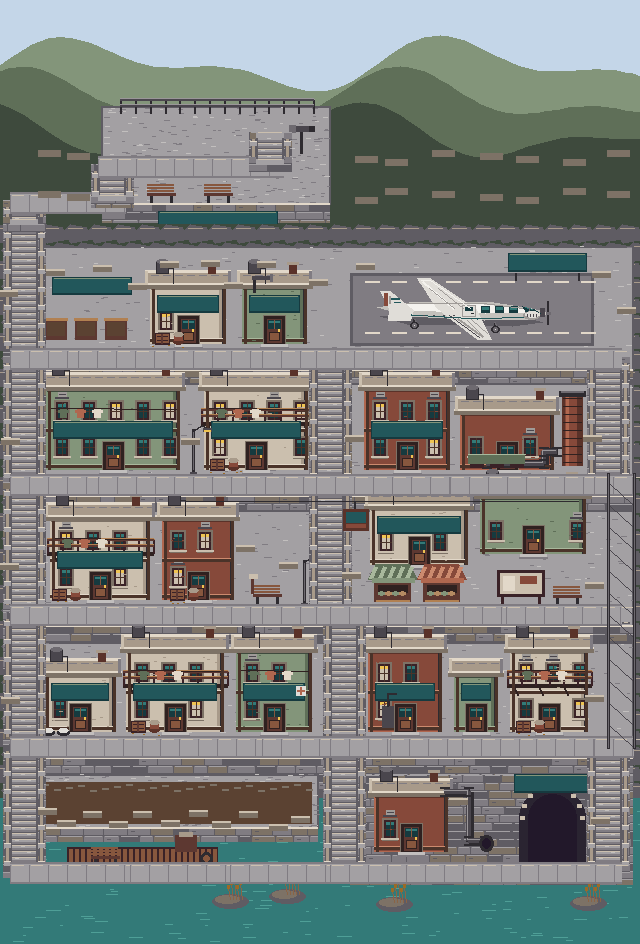
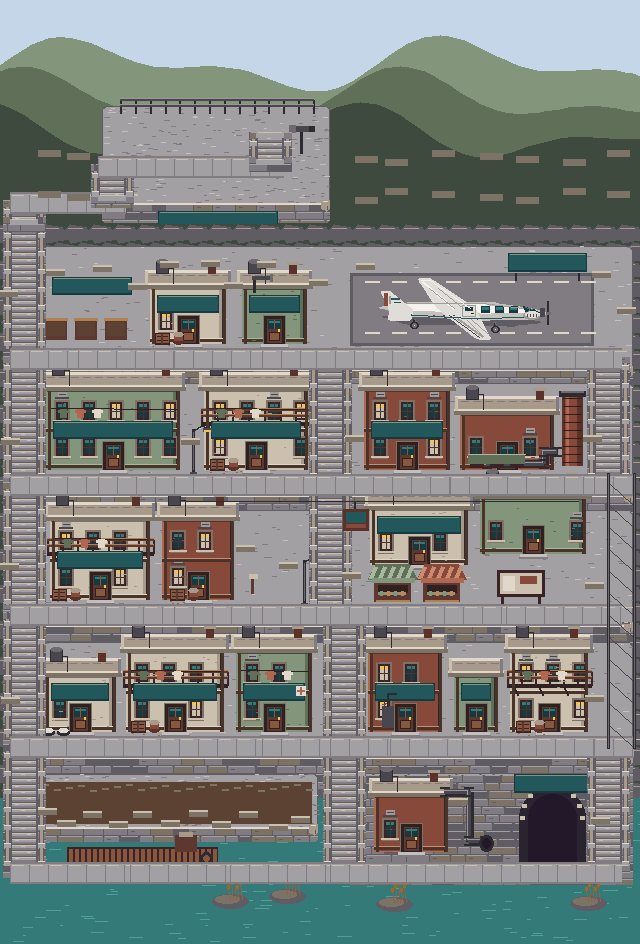
细修山城台面石角与飞机弧形轮廓，移除全部室外长椅

diff --git a/art/src/concept/autumn_city.py b/art/src/concept/autumn_city.py
@@ -71,6 +71,20 @@ class City:
   if w>0 and h>0:self.d.rectangle((int(x),int(y),int(x+w-1),int(y+h-1)),fill=c)
  def line(self,pts,c,width=1):self.d.line([(int(x),int(y)) for x,y in pts],fill=c,width=width)
  def poly(self,pts,c):self.d.polygon([(int(x),int(y)) for x,y in pts],fill=c)
+ def rounded(self,pts,radius=5):
+  # Integer quadratic corner transitions: preserve pixel edges, no filtering/AA.
+  result=[]
+  for i,v in enumerate(pts):
+   prev=pts[i-1];nxt=pts[(i+1)%len(pts)]
+   before=math.dist(prev,v);after=math.dist(v,nxt)
+   if not before or not after:continue
+   r=min(radius,before*.24,after*.24)
+   a=(v[0]+(prev[0]-v[0])*r/before,v[1]+(prev[1]-v[1])*r/before)
+   b=(v[0]+(nxt[0]-v[0])*r/after,v[1]+(nxt[1]-v[1])*r/after)
+   for j in range(5):
+    t=j/4;result.append((round((1-t)**2*a[0]+2*(1-t)*t*v[0]+t*t*b[0]),round((1-t)**2*a[1]+2*(1-t)*t*v[1]+t*t*b[1])))
+  return result
+ def soft_poly(self,pts,color,radius=5):self.poly(self.rounded(pts,radius),color)
  def oval(self,x,y,rx,ry,c):self.d.ellipse((int(x-rx),int(y-ry),int(x+rx),int(y+ry)),fill=c)
  def text(self,x,y,t,n=10,c=None):
   f=font(n);b=f.getbbox(t);mask=Image.new('L',(b[2]+2,max(n+5,b[3]+2)));ImageDraw.Draw(mask).text((0,0),t,font=f,fill=255)
@@ -118,13 +132,19 @@ class City:
   for off in (14,8):self.line([(a[0],a[1]-off),(b[0],b[1]-off)],col[1],2);self.line([(a[0],a[1]-off-1),(b[0],b[1]-off-1)],col[3])
  def terrace(self,pts,drop,seed):
   front=pts[len(pts)//2:];wall=front+[(x,y+drop) for x,y in reversed(front)]
-  self.masonry(wall,seed);self.poly(pts,P.pave[2]);self.line(pts+[pts[0]],P.pave[0],2)
+  self.masonry(self.rounded(wall,5),seed);outline=self.rounded(pts,6);self.poly(outline,P.pave[2]);self.line(outline+[outline[0]],P.pave[0],1)
   # Parallel irregular flagstones follow the top plane, clipped to its polygon.
-  mask=Image.new('1',(W,H));ImageDraw.Draw(mask).polygon(pts,fill=1);arr=np.array(mask);r=random.Random(seed)
+  mask=Image.new('1',(W,H));ImageDraw.Draw(mask).polygon(outline,fill=1);arr=np.array(mask);r=random.Random(seed)
   for _ in range(250):
    x=r.randrange(min(p[0] for p in pts),max(p[0] for p in pts));y=r.randrange(min(p[1] for p in pts),max(p[1] for p in pts))
    if arr[y,x]:self.line([(x,y),(min(W-1,x+r.randrange(2,6)),y)],P.pave[1] if _%3 else P.pave[3])
-  for a,b in zip(front,front[1:]):self.line([a,b],P.oat[3],2)
+  for a,b in zip(front,front[1:]):self.line([(a[0]-5,a[1]),(b[0]+5,b[1])],P.oat[3],2)
+  # Small dressed corner stones tie the coping to the retaining face.
+  for x,y in front:
+   inward=1 if x==min(p[0] for p in pts) else -1
+   self.soft_poly([(x,y-4),(x+inward*8,y-4),(x+inward*8,y+4),(x+inward*3,y+7),(x,y+4)],P.oat[1],2)
+   self.line([(x+inward*2,y-3),(x+inward*6,y-3)],P.oat[3])
+   self.line([(x+inward*2,y+2),(x+inward*2,y+5)],P.pave[0])
  def stairs(self,a,b,width=32):
   # Solid sandstone, open at both ends. Horizontal links are landings, never ladders.
   if a==b:return
@@ -306,12 +326,12 @@ def city_layers(stage=0,review=False):
  c.box(350,49,244,73,P.pave[0]);c.box(353,52,238,67,P.pave[1])
  for x in range(365,586,27):c.box(x,108,15,2,P.oat[3]);c.box(x,57,15,2,P.oat[3])
  # Larger private plane, 174px span, with separate tailplane, engine and landing gear.
- c.poly([(380,92),(422,88),(519,91),(542,98),(512,102),(407,100)],P.pave[0])
- c.poly([(377,83),(409,78),(493,78),(531,84),(550,89),(531,95),(484,96),(409,92)],P.porcelain[1])
- c.poly([(406,80),(483,80),(522,84),(538,88),(485,89),(411,86)],P.porcelain[3])
- c.poly([(436,83),(417,54),(430,54),(475,84),(491,115),(477,115),(448,93)],P.porcelain[2])
+ c.soft_poly([(380,92),(422,88),(519,91),(542,98),(512,102),(407,100)],P.pave[0])
+ c.soft_poly([(377,83),(409,78),(493,78),(531,84),(550,89),(531,95),(484,96),(409,92)],P.porcelain[1])
+ c.soft_poly([(406,80),(483,80),(522,84),(538,88),(485,89),(411,86)],P.porcelain[3])
+ c.soft_poly([(436,83),(417,54),(430,54),(475,84),(491,115),(477,115),(448,93)],P.porcelain[2])
  c.line([(422,57),(453,84)],P.porcelain[3],2);c.line([(457,94),(482,112)],P.porcelain[0],2)
- c.poly([(389,85),(380,67),(390,67),(413,86),(410,96),(388,96)],P.porcelain[2]);c.box(384,69,4,13,P.clay[1])
+ c.soft_poly([(389,85),(380,67),(390,67),(413,86),(410,96),(388,96)],P.porcelain[2]);c.box(384,69,4,13,P.clay[1])
  for x in (481,495,509):c.box(x,82,9,7,P.teal[0]);c.box(x+1,83,7,3,P.teal[2])
  c.box(540,84,5,9,P.steel[1]);c.box(547,77,2,24,P.steel[0]);c.box(546,88,5,3,P.steel[2])
  for x,y in ((413,95),(494,99)):c.box(x,y,2,6,P.steel[0]);c.oval(x+1,y+6,3,3,P.steel[0]);c.box(x,y+5,2,2,P.steel[2])
@@ -319,7 +339,7 @@ def city_layers(stage=0,review=False):
  c.line([(411,90),(477,94),(526,92)],P.teal[1],2)
  c.line([(406,79),(482,79),(523,84)],P.porcelain[0])
  for x in range(423,475,10):c.box(x,91,2,1,P.steel[1])
- c.poly([(522,82),(534,85),(540,89),(526,88)],P.teal[0]);c.line([(525,83),(532,85)],P.teal[2]);c.box(529,84,1,5,P.steel[2])
+ c.soft_poly([(522,82),(534,85),(540,89),(526,88)],P.teal[0]);c.line([(525,83),(532,85)],P.teal[2]);c.box(529,84,1,5,P.steel[2])
  c.box(462,81,14,12,P.porcelain[0]);c.box(463,82,12,10,P.porcelain[2]);c.box(465,83,8,4,P.teal[0]);c.box(471,89,3,1,P.steel[0])
  for a,b in [((429,64),(454,84)),((438,64),(463,84)),((467,96),(482,111)),((471,95),(487,109))]:c.line([a,b],P.porcelain[0])
  c.line([(421,56),(430,56),(470,84)],P.porcelain[3]);c.line([(449,91),(479,113)],P.steel[1])
@@ -339,10 +359,10 @@ def city_layers(stage=0,review=False):
  c.lamp(192,248)
  # Central residence / plaza. Little roofs, ledges and courts fill the whole terrace.
  c.building(50,376,100,2,'old','侦探事务所',30);c.building(162,376,72,2,'brick',None,31)
- c.bench(253,373);c.lamp(303,379);c.box(251,353,3,17,P.wood[1]);c.box(249,350,9,5,P.oat[2])
+ c.lamp(303,379);c.box(251,353,3,17,P.wood[1]);c.box(249,350,9,5,P.oat[2])
  c.building(370,341,98,1,'old','街角集市',32);c.stall(374,376,P.sage);c.stall(423,376,P.clay)
  c.building(480,330,106,1,'civic',None,33)
- c.box(497,346,48,27,P.wood[0]);c.box(500,349,42,21,P.oat[2]);c.box(503,352,12,15,P.oat[3]);c.box(520,352,17,8,P.clay[1]);c.box(501,372,3,9,P.wood[0]);c.box(538,372,3,9,P.wood[0]);c.bench(553,374)
+ c.box(497,346,48,27,P.wood[0]);c.box(500,349,42,21,P.oat[2]);c.box(503,352,12,15,P.oat[3]);c.box(520,352,17,8,P.clay[1]);c.box(501,372,3,9,P.wood[0]);c.box(538,372,3,9,P.wood[0]);
  # Worker frontages: narrow shared walls and distinct practical fittings.
  c.building(44,508,72,1,'old','洗衣铺',40);c.building(126,508,98,2,'old','工人食堂',41)
  c.building(236,508,76,2,'civic','苏医生诊所',42);c.building(368,508,74,2,'brick','公共浴场',43)
@@ -366,7 +386,7 @@ def city_layers(stage=0,review=False):
  if stage<2:c.poly([(484,625),(470,642),(454,657),(468,672),(486,657),(495,632)],P.oak[0])
  c.box(67,623,151,34,P.wood[0])
  for x in range(69,216,6):c.box(x,625,4,30,P.wood[2])
- c.bench(91,635);c.box(175,611,22,17,P.wood[1]);c.box(179,608,14,5,P.oat[1]);c.oval(206,634,6,6,P.steel[0]);c.oval(206,634,3,3,P.wood[2])
+ c.box(175,611,22,17,P.wood[1]);c.box(179,608,14,5,P.oat[1]);c.oval(206,634,6,6,P.steel[0]);c.oval(206,634,3,3,P.wood[2])
  # River rocks, reed beds and moored craft fill the lower edge, not empty water.
  if review:c.im.alpha_composite(river_boat().to_image(),(84,673));c.d=ImageDraw.Draw(c.im)
  for x,y in [(230,677),(287,672),(394,680),(588,679)]:
@@ -409,7 +429,7 @@ def city_layers(stage=0,review=False):
  for y in (() if stage>=4 else (33,57,83)):
   for x in range(0,W,19):top.box(x,y+(x//19%3),14,1,P.oat[2])
  top.terrace([(102,TOP-118),(329,TOP-118),(329,TOP-20),(102,TOP-20)],18,77)
- top.bench(147,TOP-28);top.bench(204,TOP-28)
+
  top.box(300,TOP-95,3,25,P.steel[0]);top.box(290,TOP-98,23,6,P.steel[1]);top.box(289,TOP-99,7,8,P.steel[2]);top.box(309,TOP-98,6,6,P.steel[0])
  top.rail((120,TOP-111),(313,TOP-111))
  # Continuous ascent on the user's left edge, with right-angle landings and clear mouths.

diff --git a/docs/AUTUMN_GAME.md b/docs/AUTUMN_GAME.md
@@ -118,3 +118,11 @@ with other assets. `drawRiver()` runs before actors/foliage, with integer wavele
 fixed-end mooring; only native pixels, no gradients. New browser regression walks to
 the actual lookout, measures camera continuity and compares river-only rendered pixels.
 Office uses recoloured native furniture and a 4px midfloor slab; services stay at y102/204.
+
+## Pixel corner finishing / bench removal (2026-11-01)
+Owner requests softened polygon corners with small stone corner treatments and removal
+of ALL outdoor benches, including summit and quay. Terrace top/retaining silhouettes
+now use integer quadratic corner transitions and dressed coping stones; plane fuselage,
+wings, tail and cockpit contours use the same small-radius pixel transitions. No blur,
+antialiased scenery or change to the orthogonal route graph. All outdoor bench draw
+calls removed; indoor sofa and ordinary service stools remain separate furniture.

diff --git a/docs/AUTUMN_CITY.md b/docs/AUTUMN_CITY.md
@@ -95,3 +95,11 @@ Only the game page is animated; the art inspector is an explicitly static full-m
 
 The summit starts in grey haze. Stage 4 retains the approved sunny ending: sky clears,
 mountain layers turn sage and maples red. The new view does not freeze the story in smog.
+
+## Pixel corner finishing / bench removal (2026-11-01)
+Owner requests softened polygon corners with small stone corner treatments and removal
+of ALL outdoor benches, including summit and quay. Terrace top/retaining silhouettes
+now use integer quadratic corner transitions and dressed coping stones; plane fuselage,
+wings, tail and cockpit contours use the same small-radius pixel transitions. No blur,
+antialiased scenery or change to the orthogonal route graph. All outdoor bench draw
+calls removed; indoor sofa and ordinary service stools remain separate furniture.

diff --git a/.claude/skills/pixel-art/SKILL.md b/.claude/skills/pixel-art/SKILL.md
@@ -1121,3 +1121,9 @@ Ground-floor windows must exclude refined door frames; raised signs must not cov
 Reuse native furnishings with local recolouring, eliminate the 24px blank floor band
 (4px slab), and rename 阿简的家 to **侦探事务所**. Refine plane details and give the river/
 moored boat pixel animation. Preserve smooth Source Han Sans lettering and pixel scenery.
+
+### Autumn pixel corner finishing (2026-11-01)
+Owner wants polygon corners to flow with rounded pixel transitions, stone corner caps /
+coping details, especially terrace corners and airplane silhouettes. Round on the native
+integer pixel grid; no smooth vector/blur. Remove every outdoor long bench, including
+summit plaza and quay. Preserve path openings, native character scale and Source Han signs.

diff --git a/docs/AGENT_LOG.md b/docs/AGENT_LOG.md
@@ -7,6 +7,12 @@ owner decisions made, what was not tested. Keep older entries; trim beyond ~40 e
 ---
 
 ## 2026-11-01 · Codex
+- Owner detail pass: softened native-pixel terrace/retaining and plane corners, dressed
+  stone corner coping; removed every outdoor long bench (including summit/quay).
+- Routes, scene dimensions, story and indoor furniture unchanged. Owner rules/handoffs
+  updated. Art rebuilt/reviewed; geometry + art/game browser regressions; test page only.
+
+## 2026-11-01 · Codex
 - Fixed door/window and sign/lintel overlap, removed rooftop/wall-hanging trees; detailed
   plane, grounded 66-tree forest/courts. Native furnishings recoloured; 4px office slab.
 - Renamed location to 侦探事务所 (stable ID). Added left ascent to forest-ringed summit,
